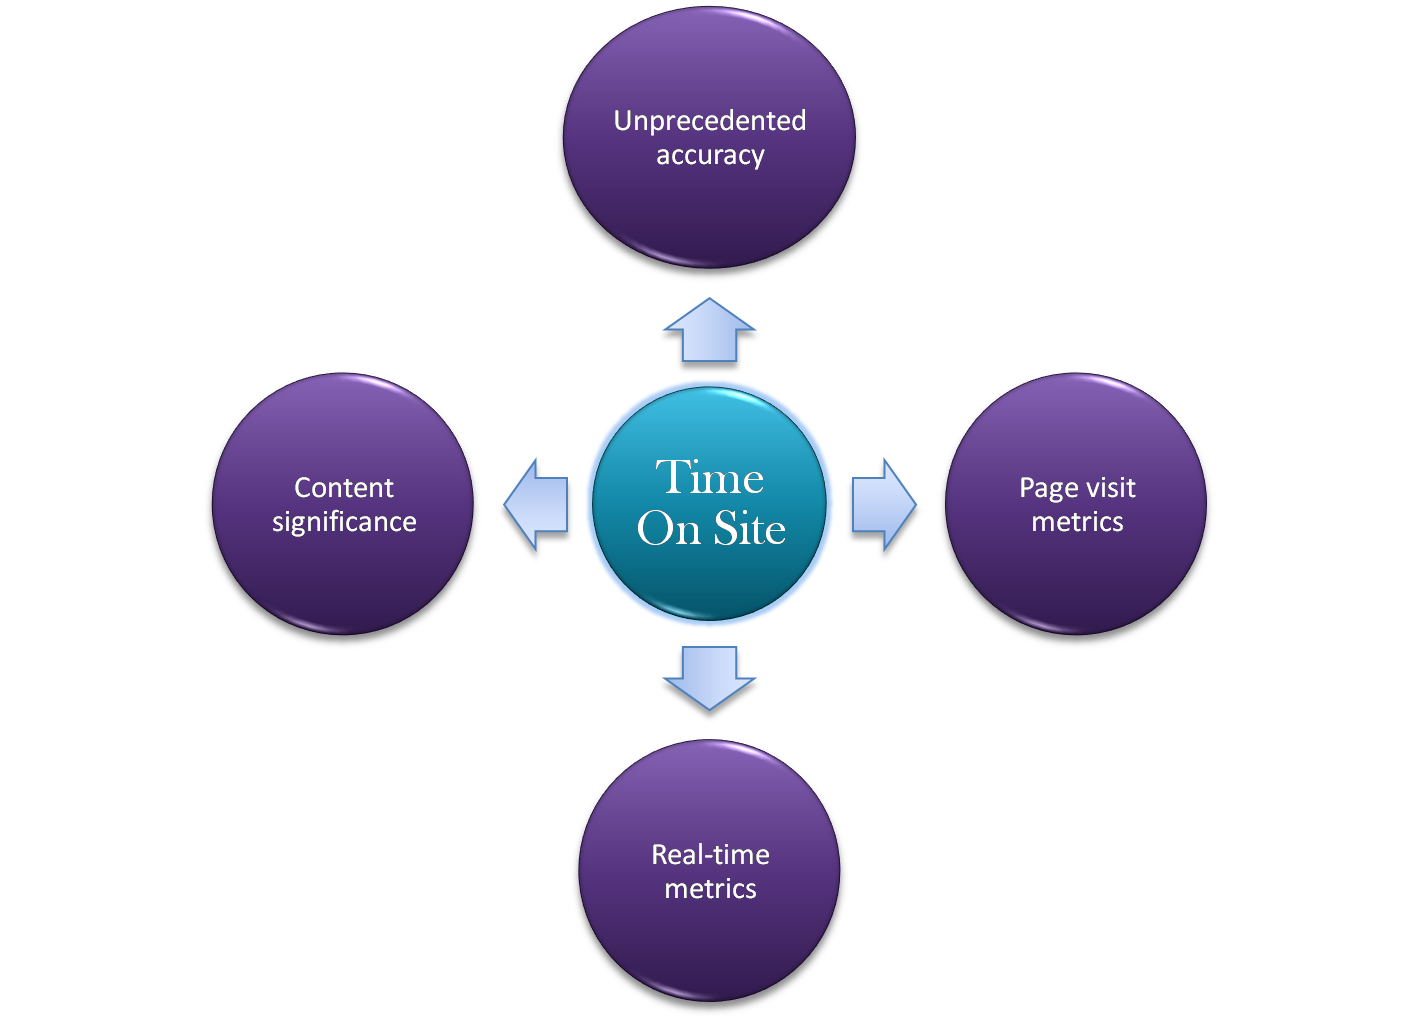
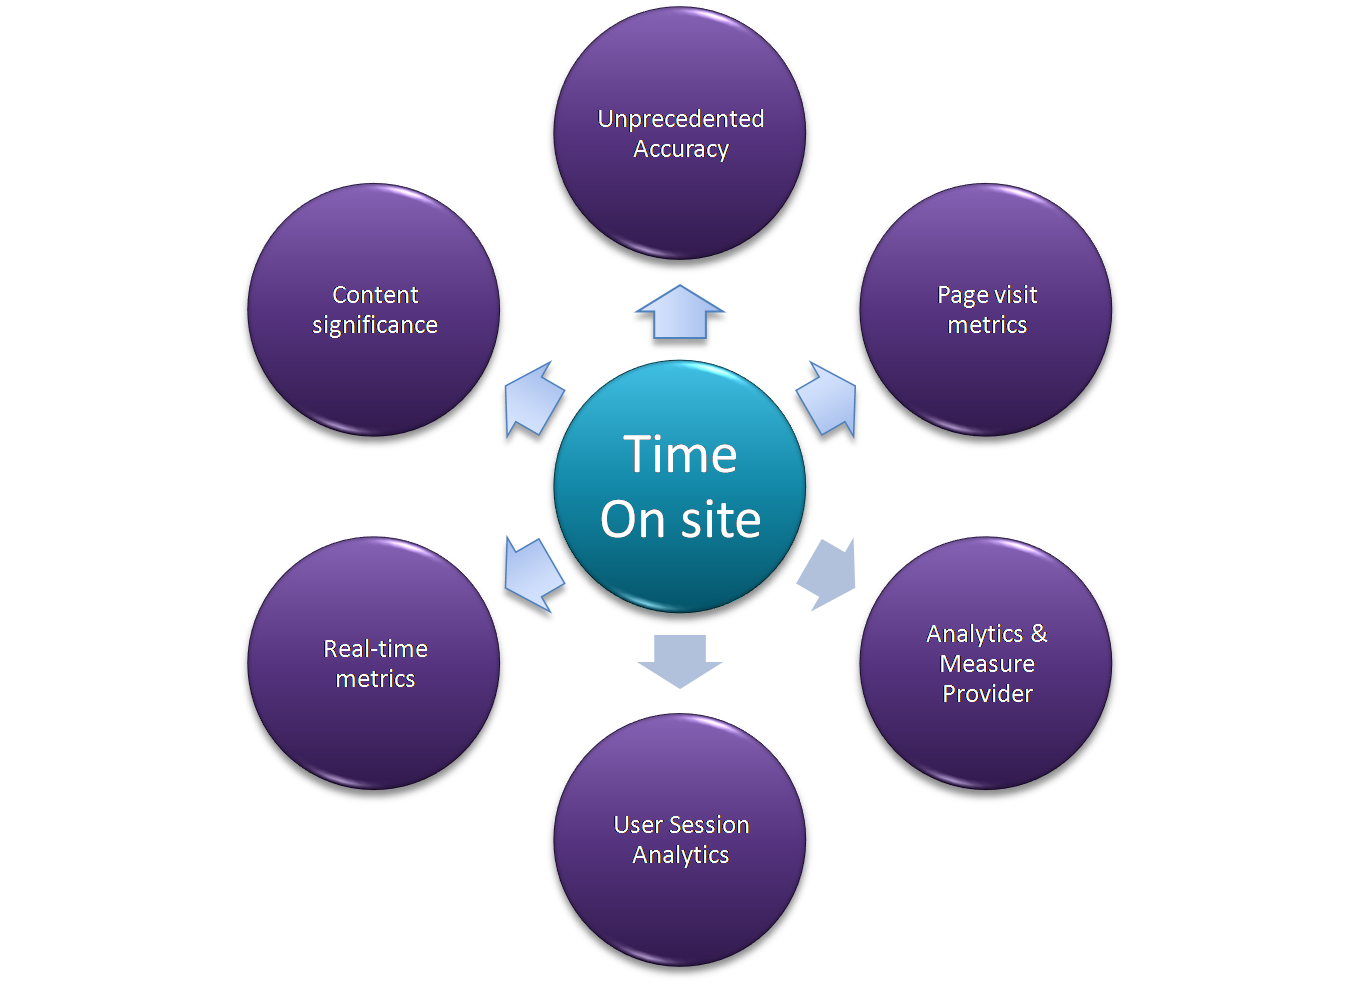
Updated analytics and tos highlights images and improved backend code documentation

diff --git a/backend/index.html b/backend/index.html
@@ -60,6 +60,7 @@
 
 
                 <br/><h3 id="examples">Saving TOS to database - Examples || Server-side data handling</h3>
+                <h4><span style="color: #7c6cfd;">Important!</span>&nbsp;This page is only for demonstrating schema and sample data - save operation. Entire backend code is already available for immediate access and use in PHP/NodeJs <a href="https://github.com/saleemkce/visual">Visual, reporting and analytics dashboard</a></h4>
                 <h3 id="time-on-site-tracking">Time On Site Tracking</h3>
                 <h3 id="NodeJs">Node.js example</h3>
 <pre class="prettyprint lang-js">
@@ -90,7 +91,6 @@ module.exports = TosSchema;
 
 //file 3: tos.controller.js
 var TosSchema = require('tos.model.js');
-var c = 0;
 module.exports.SaveTos = function(req, res, next) {
     var data = req.body;
     console.log(data);
@@ -122,17 +122,14 @@ module.exports.SaveTos = function(req, res, next) {
 
         var Tos = new TosSchema(freshData);
         // Data saved to mongoDB's tos collection
-        Tos.save(freshData, function(err){
+        Tos.save(function(err, record) {
             console.log(err);
+            res.send('success');
         });
 
-        console.log('TOS type : ' + freshData.trackingType);
-        console.log('Record No : ' + ++c);
     } else {
         console.log('TOS data not received. Please check your endpoint URL and POST data from client-side!');
     }
-
-    res.send('success');
     
 };
 </pre>
@@ -246,7 +243,6 @@ module.exports = ActivitySchema;
 
 //file 3: activity.controller.js
 var ActivitySchema = require('activity.model.js');
-var c = 0;
 module.exports.SaveActivity = function(req, res, next) {
     var data = req.body;
     console.log(data);
@@ -274,17 +270,14 @@ module.exports.SaveActivity = function(req, res, next) {
 
         var Activity = new ActivitySchema(freshData);
         // Data saved to mongoDB's tos collection
-        Activity.save(freshData, function(err){
+        Activity.save(function(err, record){
             console.log(err);
+            res.send('success');
         });
 
-        console.log('TOS type : ' + freshData.trackingType);
-        console.log('Record No : ' + ++c);
     } else {
         console.log('TOS activity data not received. Please check your endpoint URL and POST data from client-side!');
-    }
-
-    res.send('success');
+    } 
     
 };
 </pre>
@@ -381,6 +374,8 @@ Body:
 }
 </pre>
                 <p>In HTTP client like Postman, you could test if your route works before applying the code in your application.</p>
+
+                <h4><span style="color: #7c6cfd;">Important!</span>&nbsp;This page is only for demonstrating schema and sample data - save operation. Entire backend code is already available for immediate access and in use PHP/NodeJs <a href="https://github.com/saleemkce/visual">Visual, reporting and analytics dashboard</a></h4>
 
                 <p class="tos_development_info_bottom">Developed with love for web & analytics at <a href="https://en.wikipedia.org/wiki/Chennai">Chennai</a>, remember <a href="https://en.wikipedia.org/wiki/Marina_Beach">Marina</a>? All praise be to Almighty God.<br/>TimeonsiteTracker.js, the commercial software.
                 </p>

diff --git a/index.html b/index.html
@@ -249,8 +249,7 @@
                         TimeOnSite Tracker can be used for free without purchasing a licence key in following cases:
                         <ul>
                             <li>Using it in non-production environments like development, test, stage etc. (ex. <strong>http://testing.example.com</strong>)</li> and for testing purposes
-                            <li>It's free to use for non-profit organizations and educational universities but it cannot be embedded in other open-source software or
-                             libraries.</li>
+                            <li>It's free to use for non-profit organizations and educational universities but it cannot be embedded in other open-source software, commerical software and libraries since it is per-domain based licence model.</li>
                         </ul>
                     </p>
 

diff --git a/stylesheets/tos_features.css b/stylesheets/tos_features.css
@@ -62,6 +62,7 @@
 	width: 100%;
 	height: 100%;
 	cursor: pointer;
+	overflow: scroll;
 	display: none;
 }
 
